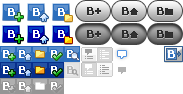
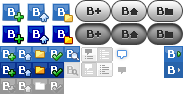
トグル時

Changed region(s): [[0.8743, 0.4894, 1.0, 0.8298]]

diff --git a/chrome/content/toolbar.css b/chrome/content/toolbar.css
@@ -65,7 +65,7 @@ toolbar[iconsize="small"] #hBookmarkDropdownButton:active {
 
 #hBookmarkToolbar > [anonid="sidebarToggleButton"][checked="true"] {
   list-style-image: url("chrome://hatenabookmark/skin/images/buttons.png");
-  -moz-image-region: rect(46px 183px 62px 164px);
+  -moz-image-region: rect(62px 183px 78px 164px);
   cursor: pointer;
 }
 
